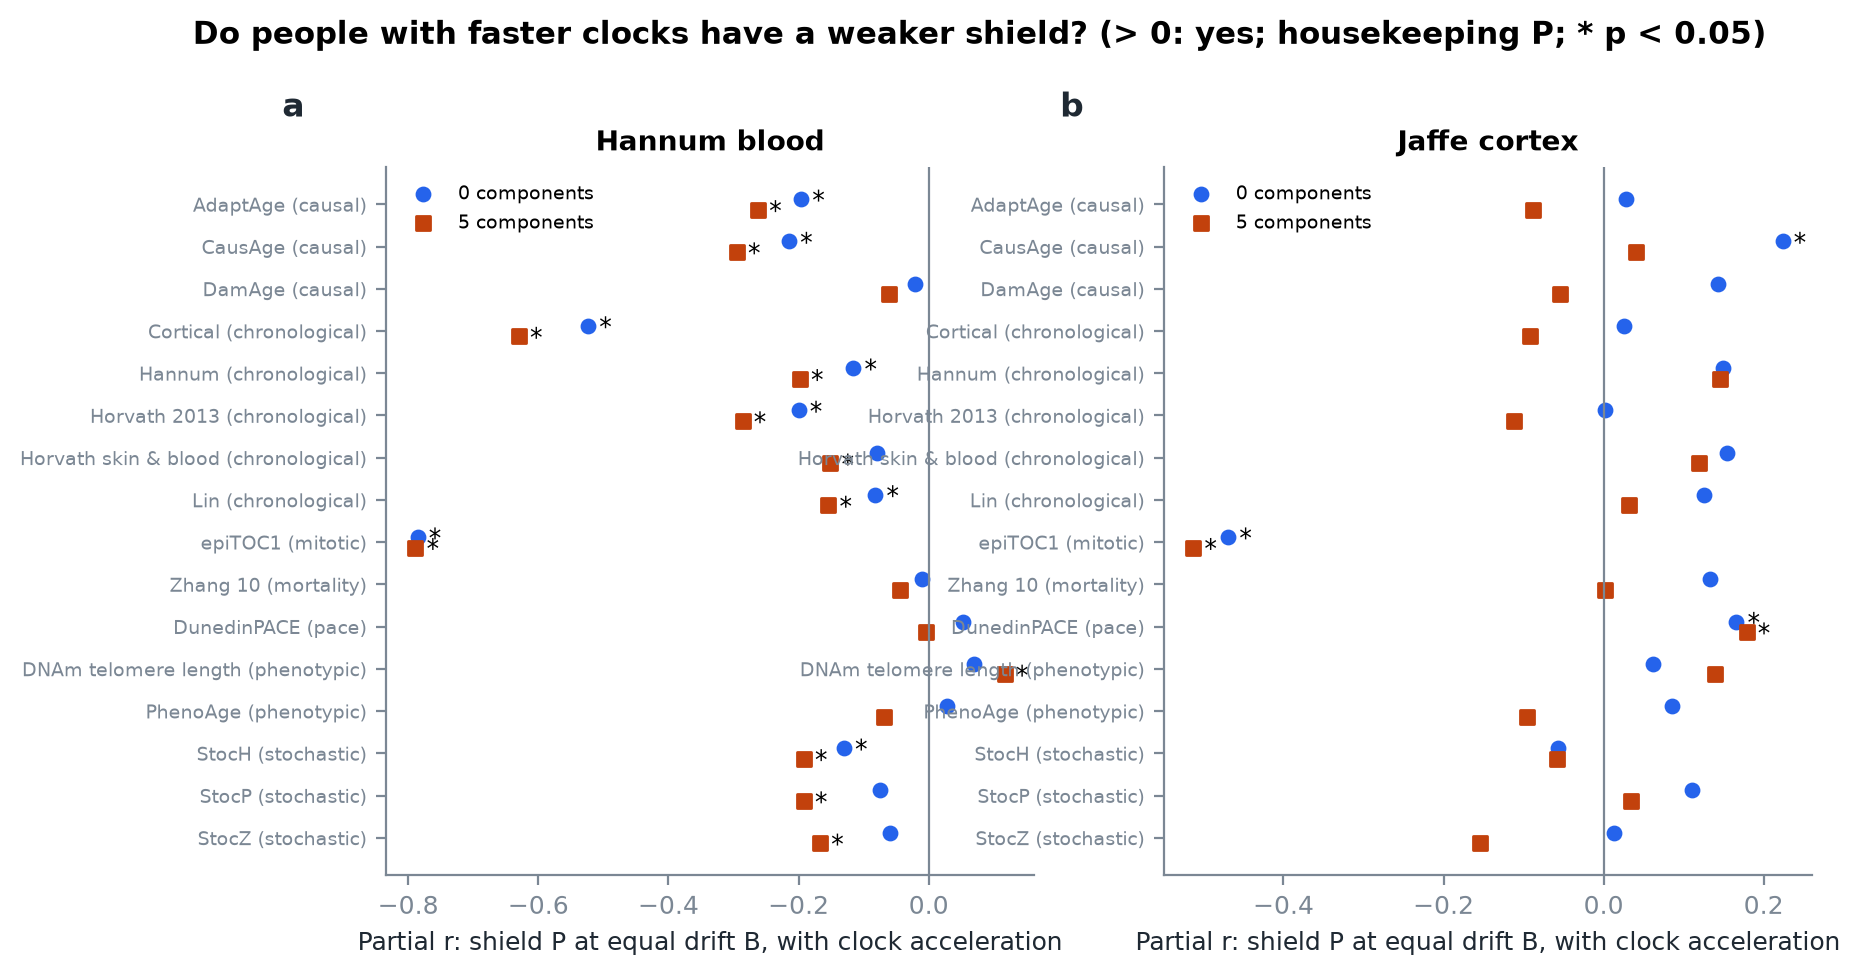
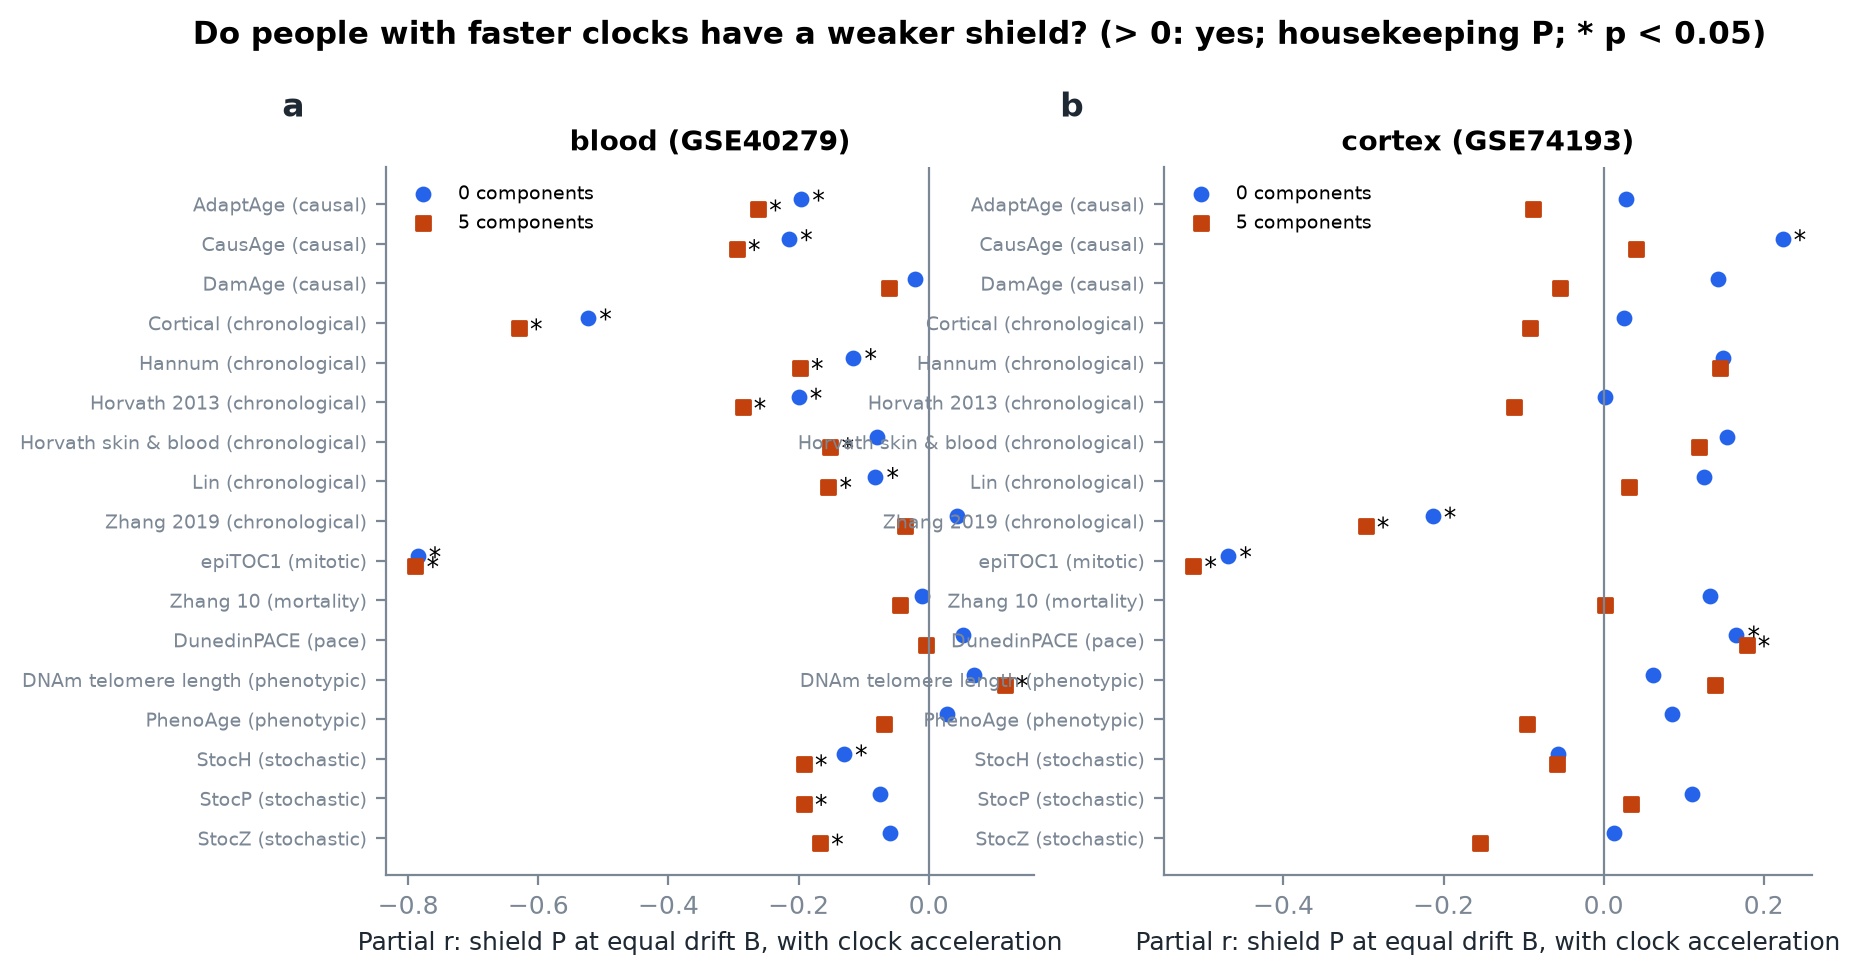
shield_clocks: cohorts by accession on the figure; correlations kept as CSV
Seat: entropy-age/lead
Claude-Session: https://claude.ai/code/session_01TJzjgJACUvbS1joxbZrgzk

diff --git a/src/entropy_age/experiments/common.py b/src/entropy_age/experiments/common.py
@@ -245,11 +245,11 @@ def ground_state(paths: ProjectPaths, rng: np.random.Generator, n_random: int = 
 CSV_MAX_ROWS = 1_000
 
 
-def write_table(frame: pl.DataFrame, path: Path) -> Path:
+def write_table(frame: pl.DataFrame, path: Path, csv_max_rows: int = CSV_MAX_ROWS) -> Path:
     """Parquet always (gitignored); a CSV copy for summaries small enough to keep in git."""
     path.parent.mkdir(parents=True, exist_ok=True)
     frame.write_parquet(path.with_suffix(".parquet"))
-    if frame.height <= CSV_MAX_ROWS:
+    if frame.height <= csv_max_rows:
         frame.write_csv(path.with_suffix(".csv"))
     else:  # an older, smaller run's CSV would stay behind and be read as current (species_gaps.csv, 2026-11-24)
         path.with_suffix(".csv").unlink(missing_ok=True)

diff --git a/src/entropy_age/experiments/shield_clocks.py b/src/entropy_age/experiments/shield_clocks.py
@@ -136,7 +136,7 @@ def run(ctx: Context) -> list[Path]:
                         )
             print(f"shield_clocks: {cohort}, {k} components done", file=sys.stderr, flush=True)
     table = pl.DataFrame(rows)
-    write_table(table, out / "correlations")
+    write_table(table, out / "correlations", csv_max_rows=5_000)  # a supplementary table: kept in git
     return [_figure(ctx, table)]
 
 

diff --git a/docs/CHANGELOG.md b/docs/CHANGELOG.md
@@ -4,6 +4,7 @@ Newest first.
 
 ## Unreleased
 
+- 2026-11-24: shield_clocks redrawn with cohorts by accession; its correlations table (now with Zhang 2019, other numbers unchanged) stays a tracked CSV (`write_table(csv_max_rows=...)`).
 - 2026-11-24 (protocol change 4): QC drops arrays below a quarter of the series' median intensity (127 EPIC-Italy arrays, none elsewhere), after the exact-chip review traced a drift odds ratio of 4.5 to them; unmasked clock track recorded. Exact-chip review in docs/reviews/2026-11-24-exact-chip-B.md.
 - 2026-11-24: R162 nested clock models at paper scale (35 clocks + panel): same chip first, F given B and clock 0.67-0.80 (LR p < 0.05 in 35 of 36); same chip only, F 0.70-0.80 unresolved and B 3.9-5.9 per SD given any clock. The exact-chip B result is under independent review before the paper changes.
 - 2026-11-24: new analysis `clock_atlas`: every scored clock in every rebuilt human series group (r with age, median error, valid in the tissue or kept as a negative control) and the agreement between valid clocks' accelerations; heatmap figure. Checked on the kidney series.
